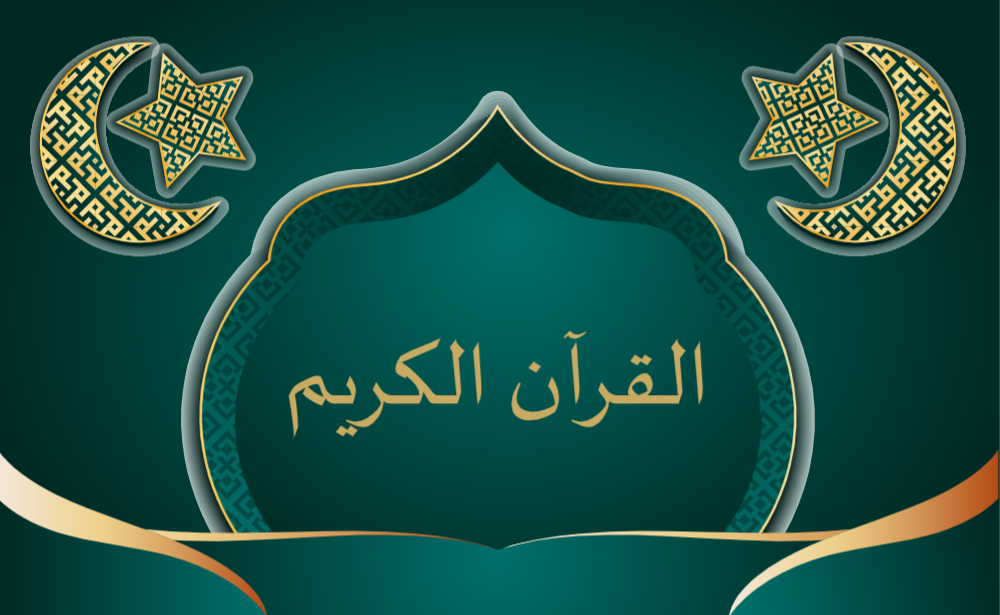
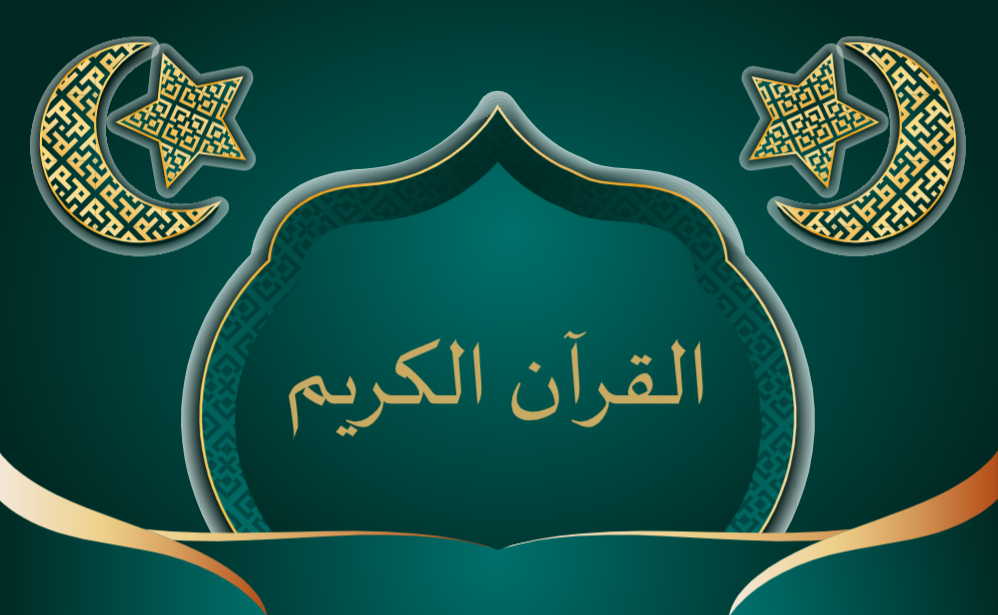
header image side-line removal
Also decreased header width, which also reduced height

diff --git a/src/components/Surahs.js b/src/components/Surahs.js
@@ -2,13 +2,13 @@ import { Link } from 'react-router-dom';
 import { surahData } from '../surahData';
 import "../App.css"
 import "./SurahShowcase.css"
-import header from '../images/header.PNG';
+import header from '../images/header.png';
 import circleArt from '../images/number-circle.png';
 
 const Surahs = () => {
   return (
     <div style={{ textAlign: 'center', fontFamily: "Jameel Noori Nastaleeq" }}>
-      <img style={{ width: "100vw" }} src={header} alt="header" />
+      <img style={{ width: "75vw" }} src={header} alt="header" />
       <div>
         {Object.entries(surahData).map(([id, { en_name, name }]) => (
           <li style={{ textAlign: 'center', fontFamily: "Jameel Noori Nastaleeq" }} key={id}>
@@ -17,9 +17,9 @@ const Surahs = () => {
               <Link to={`/Surah/${id}`} style={{ textDecoration: 'none' }}>
                 <div style={{ display: "flex", justifyContent: "center", alignItems: "center" }}>
                   <p style={{ textDecorationLine: 'none', fontSize: '140%', borderRadius: '12px', fontFamily: "Jameel Noori Nastaleeq", color: "#032D2B", padding: '0px 20px 0px 0px' }}>{name}</p>
-                  <div class="container">
+                  <div className="container">
                     <img style={{ width: '70px', marginBottom: '0px' }} src={circleArt} alt="Circle-Art" />
-                    <div class="centered" style={{ padding: '0px', margin: '0px', color: '#032D2B', textDecorationLine: 'none' }}>{id}</div>
+                    <div className="centered" style={{ padding: '0px', margin: '0px', color: '#032D2B', textDecorationLine: 'none' }}>{id}</div>
                   </div>
                 </div>
               </Link>
